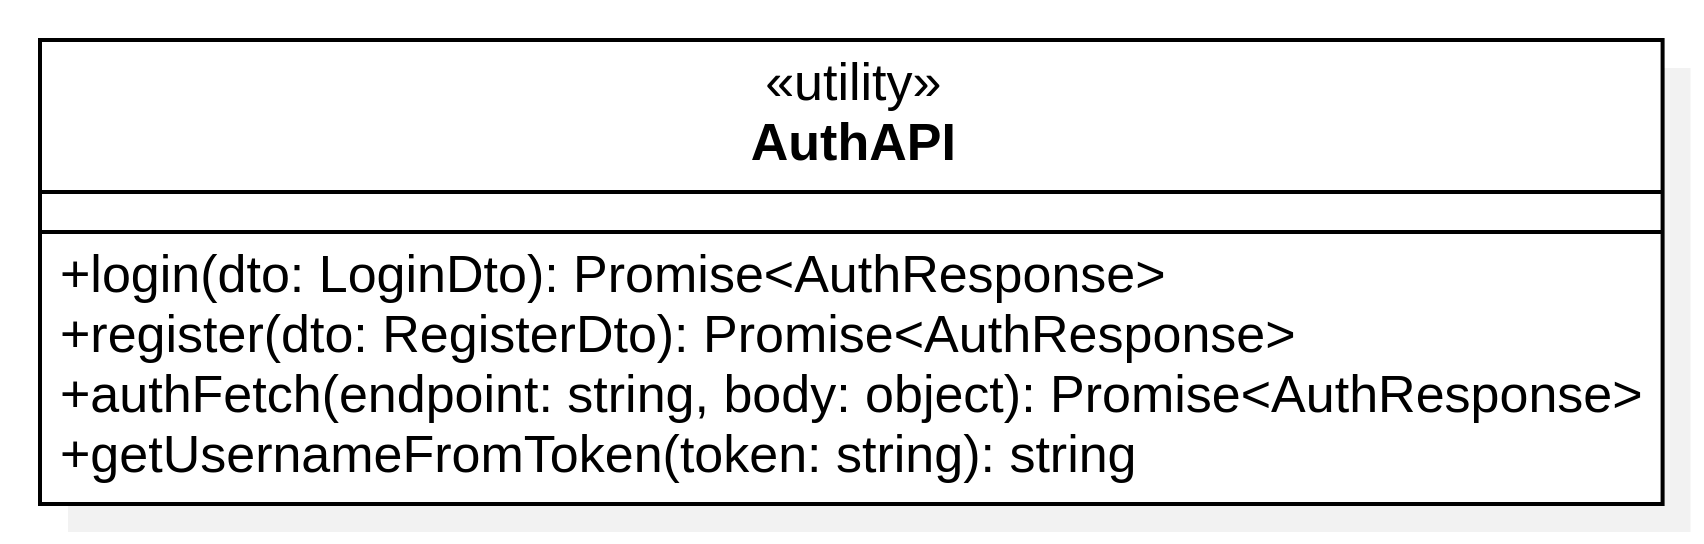
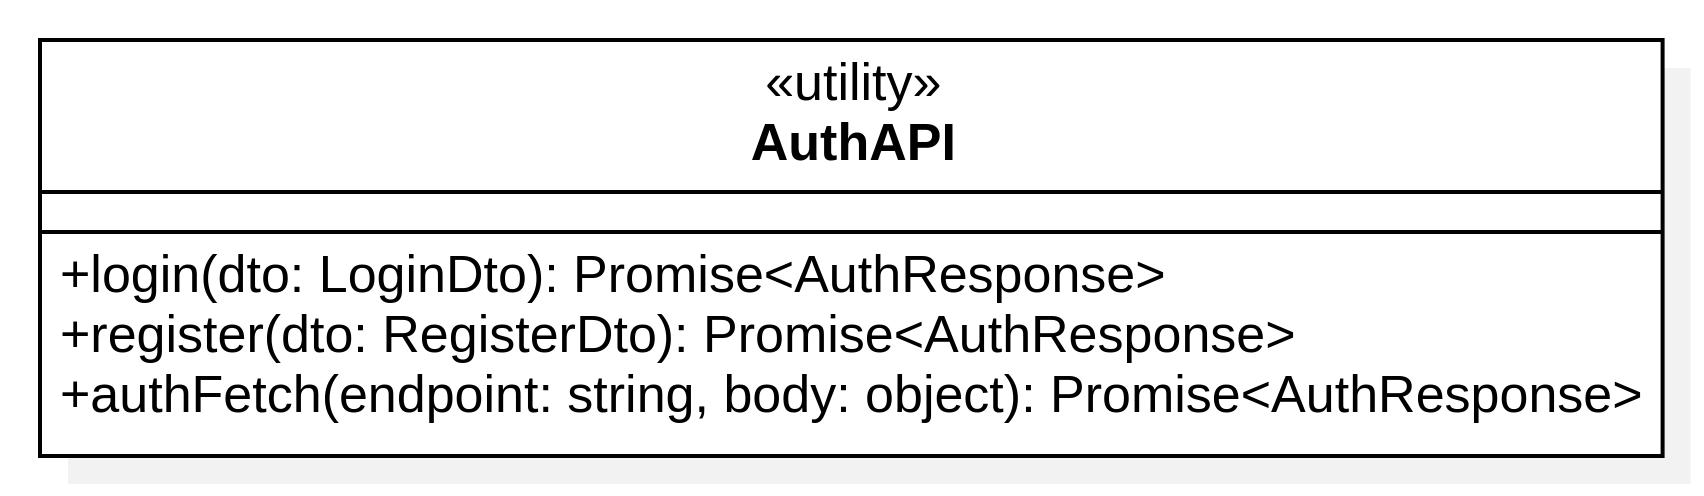
Fix

Changed region(s): [[0.0, 0.4234, 0.9953, 0.9375], [0.0311, 0.121, 0.9642, 0.3931], [0.0, 0.0605, 0.9953, 0.0907]]

diff --git a/src/PB/Documenti Esterni/Specifica Tecnica/content/db.tex b/src/PB/Documenti Esterni/Specifica Tecnica/content/db.tex
@@ -24,9 +24,9 @@ In esso vengono salvati:
 	\item \textbf{UtentiWeb}: la tabella che tiene salvati gli utenti di SmartOrder. Contiene:
 	\begin{itemize}
 		\item \textbf{username}: rappresenta il nome dell'utente con cui si può effettuare il login. È la primary key della tabella
-		\item \textbf{descrizione}: rappresenta la descrizione del cliente associato all'utente
 		\item \textbf{email}: l'email associata all'utente. Deve essere univoca
 		\item \textbf{password}: la password dell'utente. È salvata utilizzando l'algoritmo bcrypt
+		\item \textbf{admin}: booleano che identifica se un utente è admin oppure no
 	\end{itemize}
 	\item \textbf{Ordine}: rappresenta un ordine di un utente. È composto da:
 		\begin{itemize}
@@ -43,6 +43,7 @@ In esso vengono salvati:
 	\begin{itemize}
 		\item \textbf{id\_conv}: rappresenta l'id della conversazione. È la primary key della tabella
 		\item \textbf{username}: rappresenta lo username associato a quella conversazione. È una chiave esterna
+		\item \textbf{titolo}: rappresenta il titolo della conversazione
 	\end{itemize}
 	\item \textbf{Messaggi}: rappresenta i messaggi all'interno di una conversazione. È composta da:
 	\begin{itemize}

diff --git a/src/PB/Documenti Esterni/Specifica Tecnica/content/autenticazione_frontend.tex b/src/PB/Documenti Esterni/Specifica Tecnica/content/autenticazione_frontend.tex
@@ -248,10 +248,6 @@ Viene utilizzato esclusivamente dalle classi Model.
 
 	\item \texttt{authFetch(endpoint: string, body: object): Promise<AuthResponse>} - funzione helper interna asincrona.
 	Centralizza la logica comune delle chiamate HTTP: costruisce l'header, gestisce gli errori di rete e deserializza la risposta JSON$^G$ in \texttt{AuthResponse}.
-
-	\item \texttt{getUsernameFromToken(token$^G$: string): string} - funzione pubblica.
-	Decodifica il payload del token$^G$ ed estrae il campo corrispondente allo username dell'utente autenticato.
-	Viene utilizzata dopo il login per recuperare l'identità dell'utente senza effettuare ulteriori chiamate al backend.
 \end{itemize}
 
 
